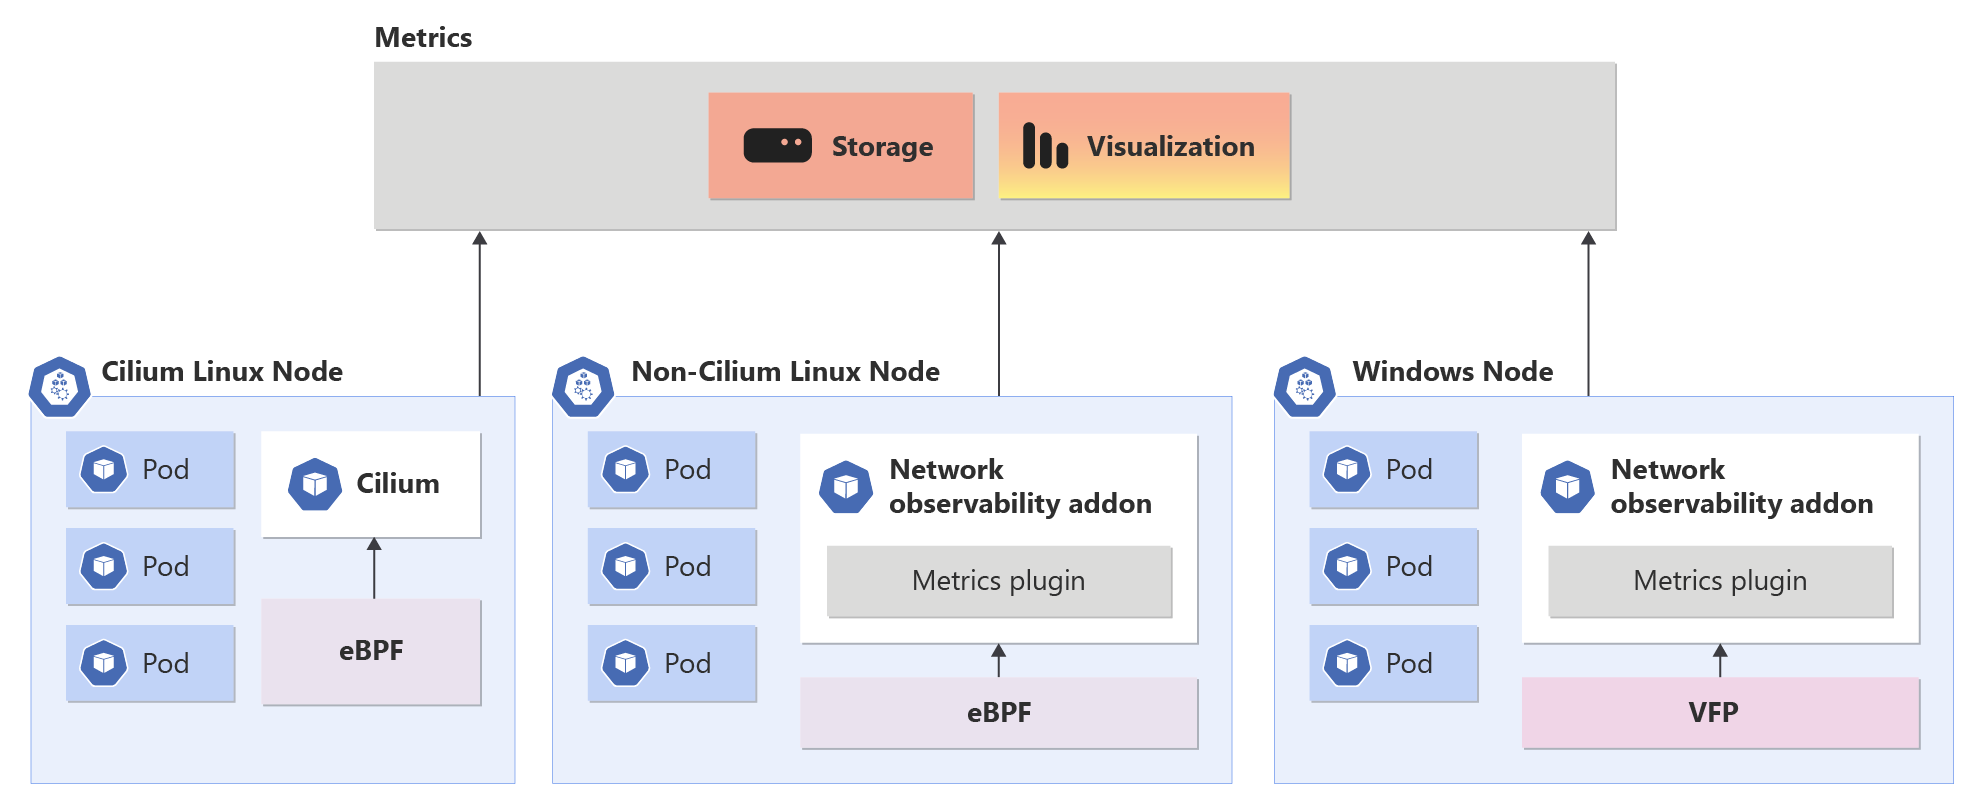
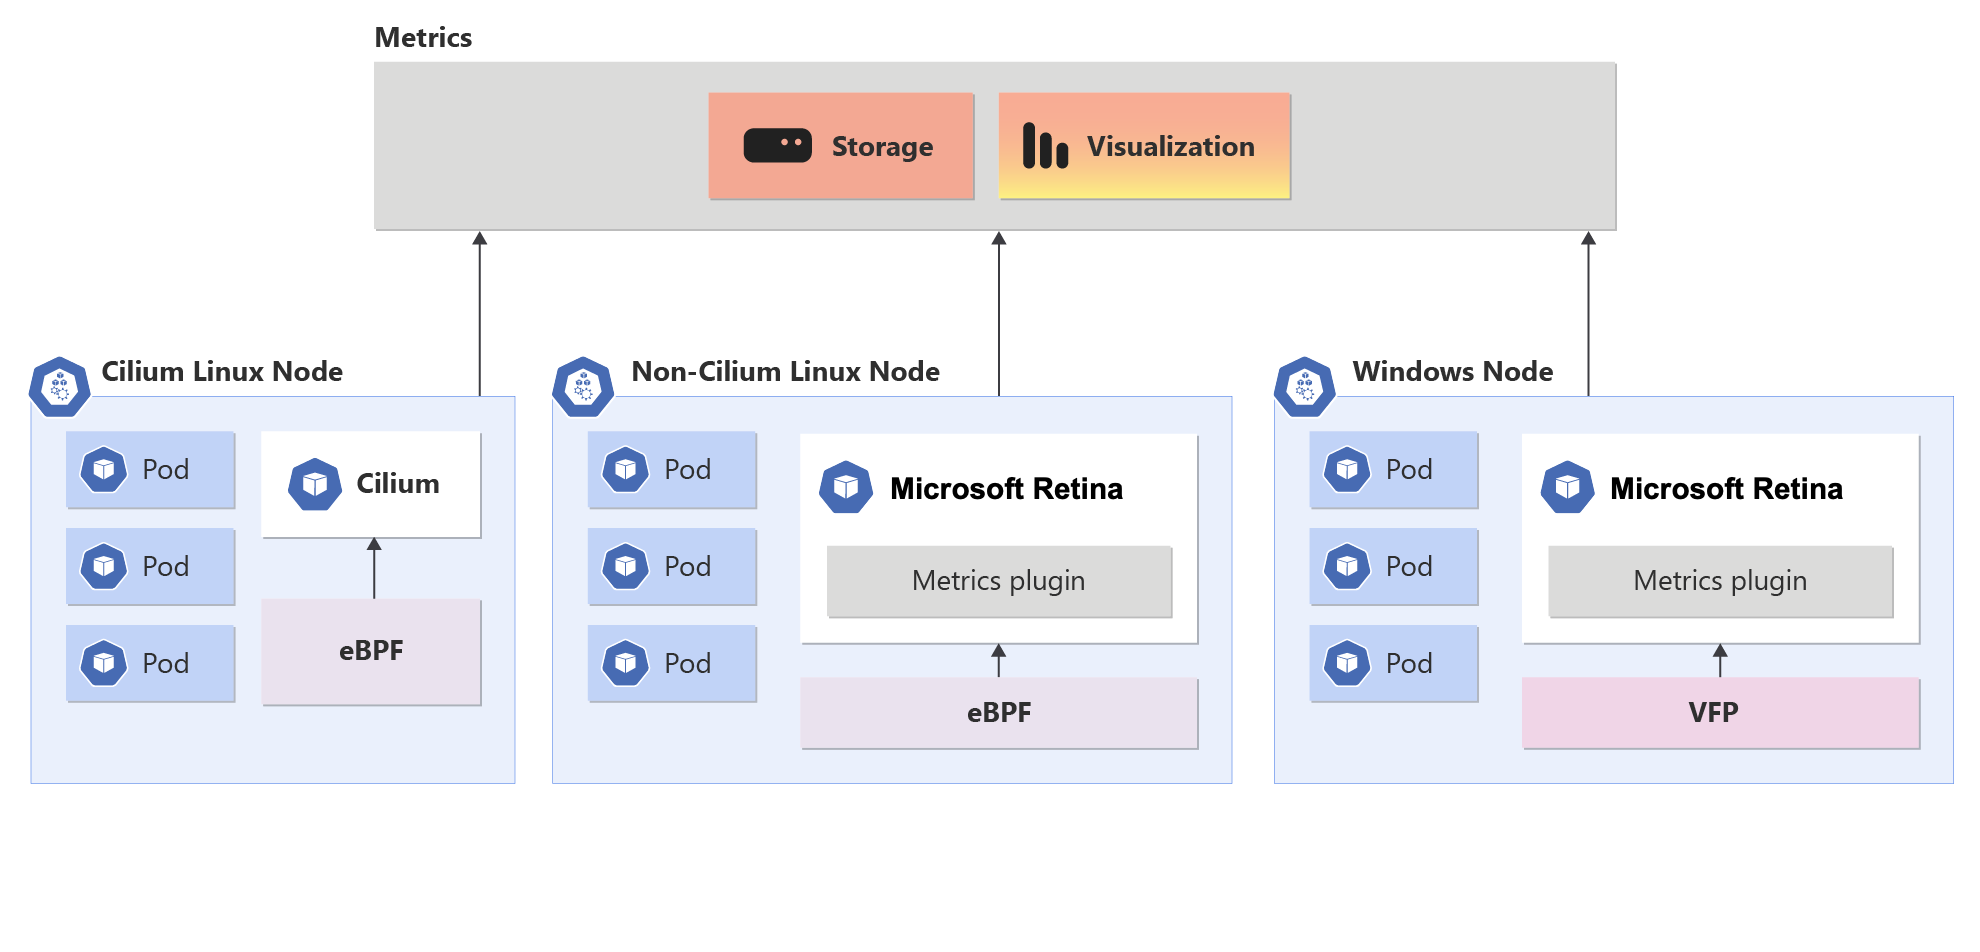
updated diagram and removed preview verbiage

diff --git a/articles/aks/network-observability-overview.md b/articles/aks/network-observability-overview.md
@@ -1,15 +1,15 @@
 ---
-title: What is Azure Kubernetes Service (AKS) Network Observability? (Preview)
+title: What is Azure Kubernetes Service (AKS) Network Observability?
 description: An overview of network observability for Azure Kubernetes Service (AKS).
 author: asudbring
 ms.author: allensu
 ms.service: azure-kubernetes-service
 ms.subservice: aks-networking
 ms.topic: overview
-ms.date: 06/20/2023
+ms.date: 04/30/2024
 ---
 
-# What is Azure Kubernetes Service (AKS) Network Observability? (Preview)
+# What is Azure Kubernetes Service (AKS) Network Observability?
 
 Kubernetes is a powerful tool for managing containerized applications. As containerized environments grow in complexity, it can be difficult to identify and troubleshoot networking issues in a Kubernetes cluster.
 
@@ -18,10 +18,6 @@ Network observability is an important part of maintaining a healthy and performa
 :::image type="content" source="./media/network-observability-overview/network-observability-components.png" alt-text="Diagram of Network Observability components.":::
 
 ## Overview of Network Observability add-on in AKS
-
-> [!IMPORTANT]
-> AKS Network Observability is currently in PREVIEW.
-> See the [Supplemental Terms of Use for Microsoft Azure Previews](https://azure.microsoft.com/support/legal/preview-supplemental-terms/) for legal terms that apply to Azure features that are in beta, preview, or otherwise not yet released into general availability.
 
 Networking Observability add-on operates seamlessly on Non-Cilium and Cilium data-planes. It empowers customers with enterprise-grade capabilities for DevOps and SecOps. This solution offers a centralized way to monitor network issues in your cluster for cluster network administrators, cluster security administrators, and DevOps engineers.
 
